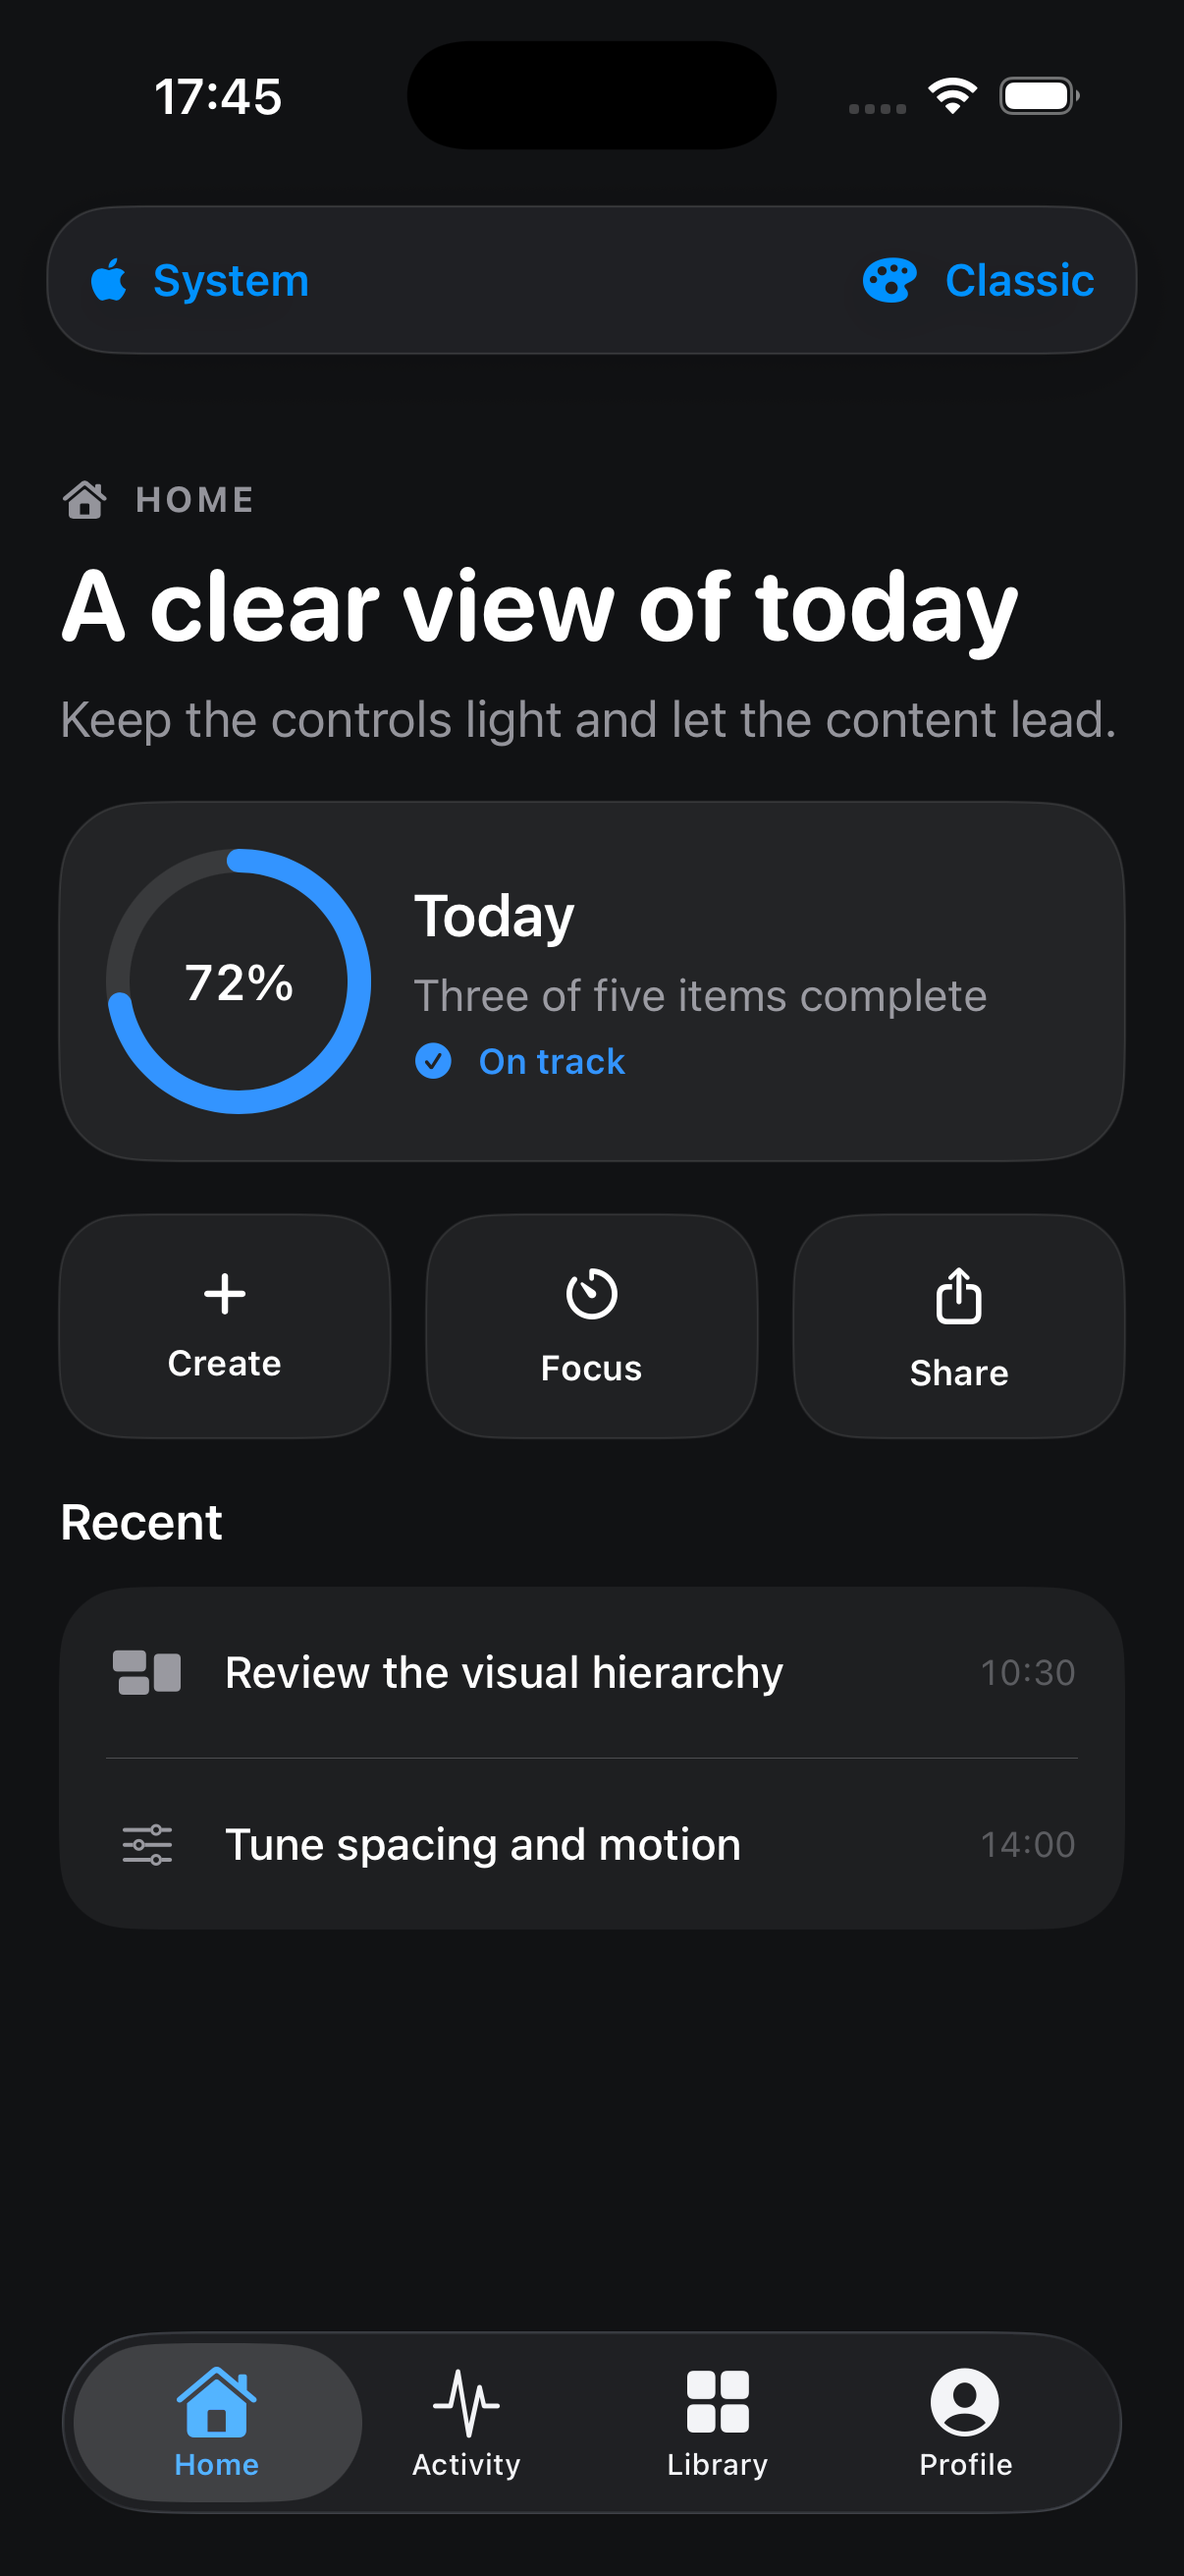
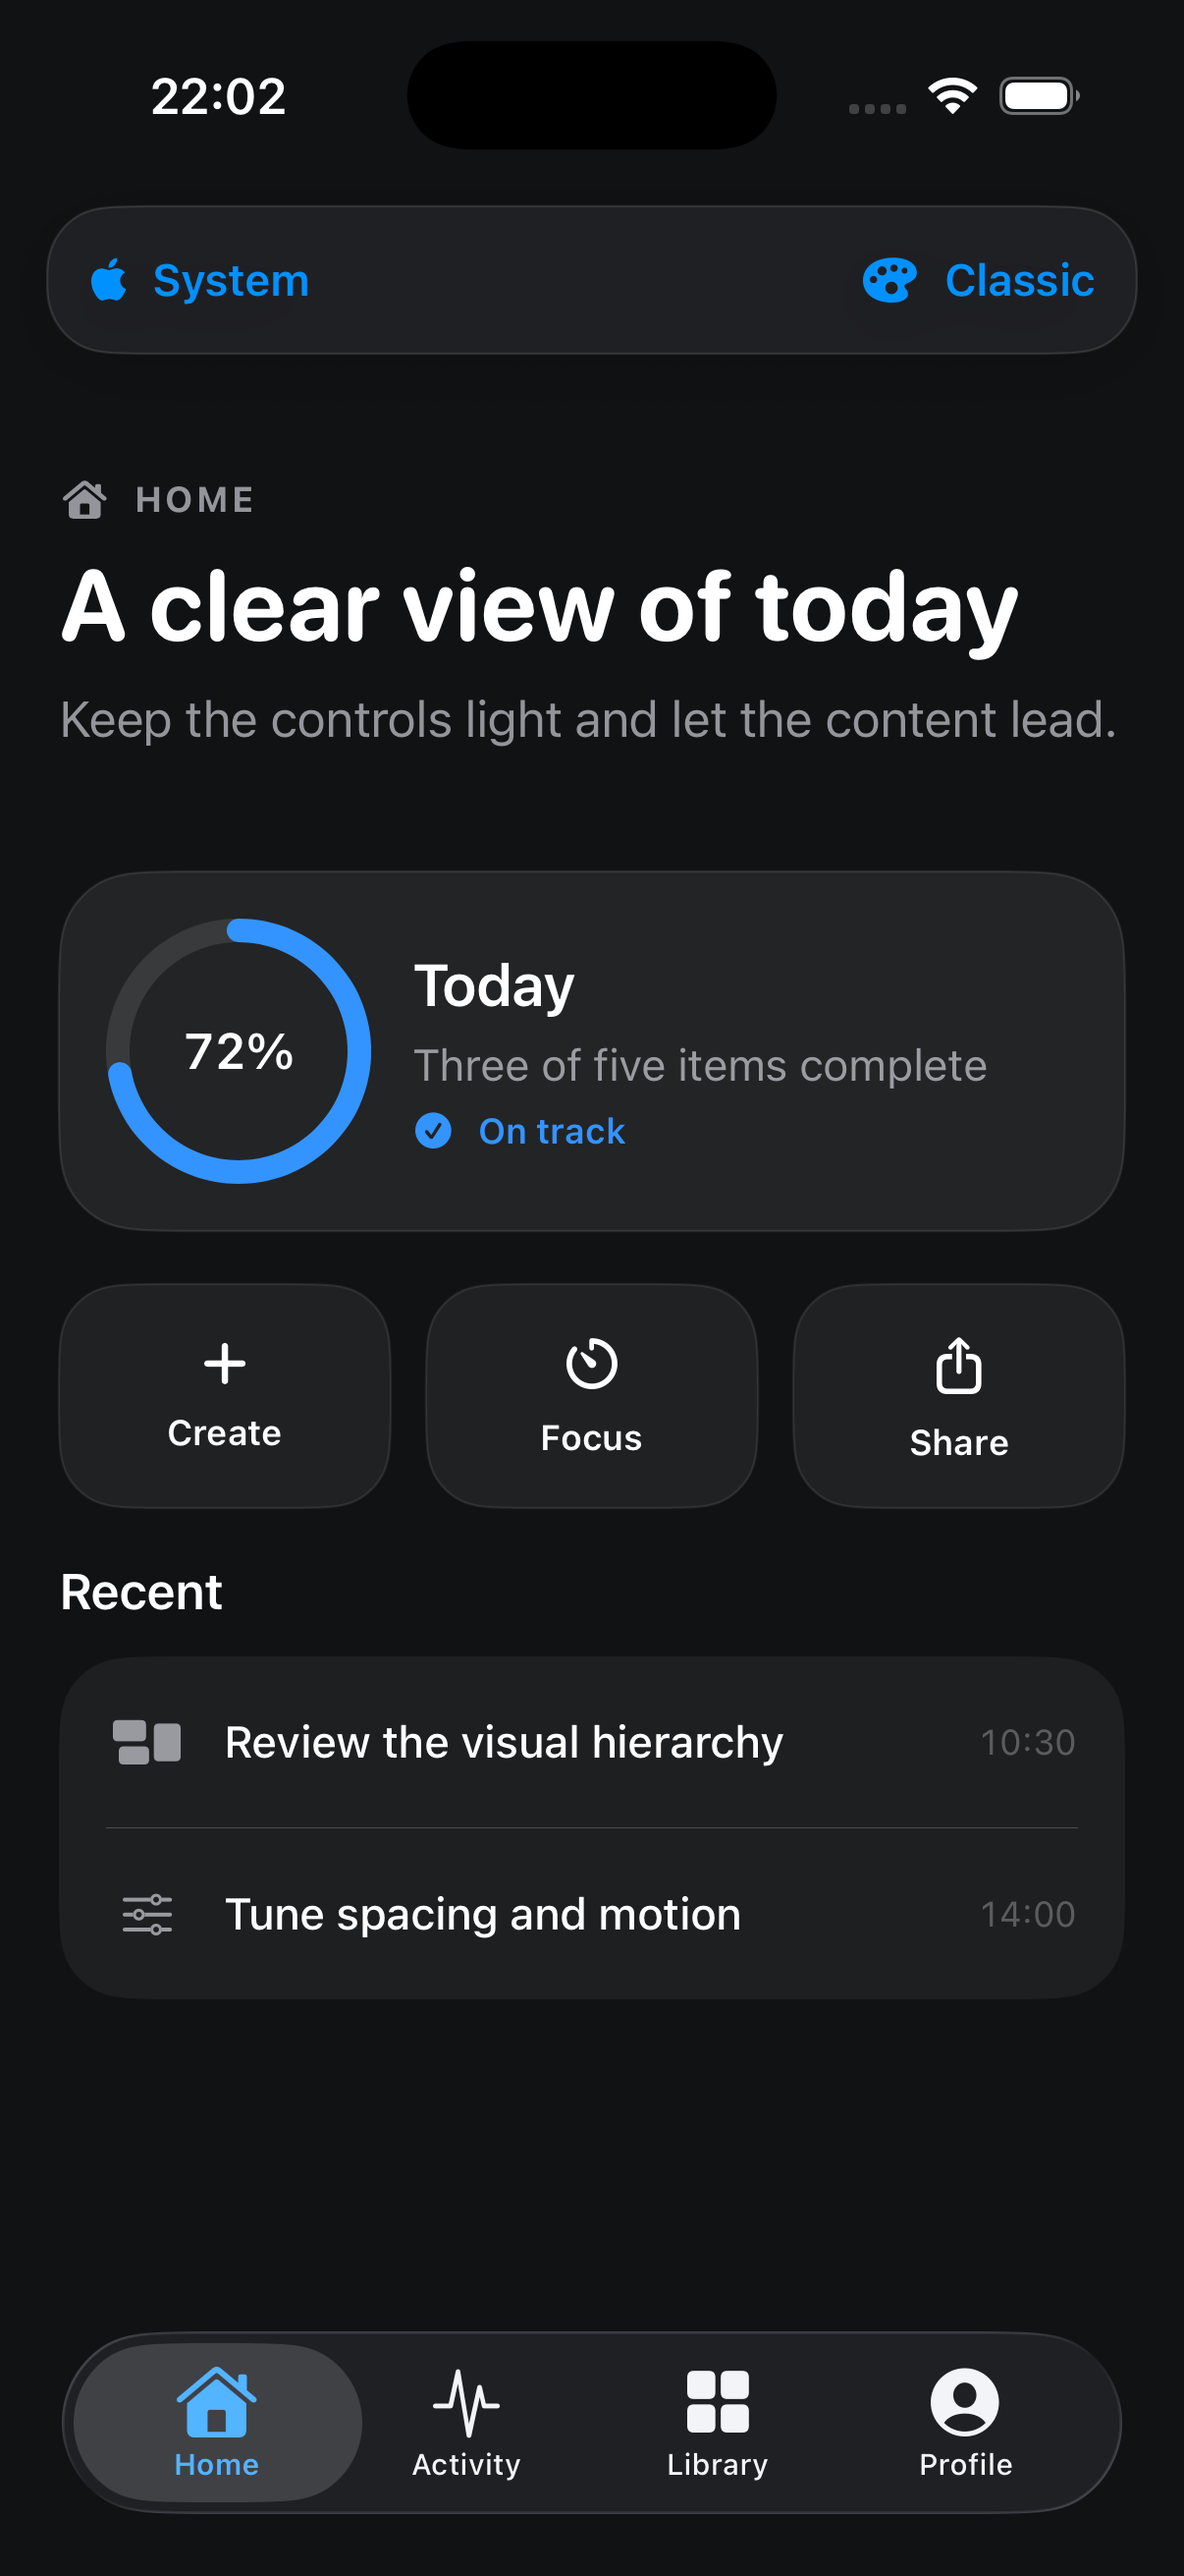
Stabilize tab bar showcase transitions
Unify custom bar geometry, smooth style and palette transitions, add compiler-gated Liquid Glass fallbacks, and refresh preview media.

diff --git a/Examples/LiquidGlassDemo/LiquidGlassDemo/DemoRootView.swift b/Examples/LiquidGlassDemo/LiquidGlassDemo/DemoRootView.swift
@@ -71,6 +71,14 @@ struct DemoRootView: View {
                     .scaledToFill()
                     .ignoresSafeArea()
                     .opacity(transitionSnapshotOpacity)
+                    .mask {
+                        VStack(spacing: 0) {
+                            Rectangle().frame(height: 140)
+                            Spacer(minLength: 0)
+                            Rectangle().frame(height: 140)
+                        }
+                        .ignoresSafeArea()
+                    }
                     .allowsHitTesting(false)
                     .accessibilityHidden(true)
             }
@@ -104,6 +112,7 @@ struct DemoRootView: View {
                 .padding(.horizontal, 16)
                 .padding(.top, 8)
                 .padding(.bottom, 6)
+                .offset(y: 16)
             }
     }
 
@@ -158,9 +167,11 @@ struct DemoRootView: View {
         Menu {
             ForEach(DemoPalette.allCases) { candidate in
                 Button {
-                    withAnimation(.easeInOut(duration: 0.24)) {
-                        palette = candidate
-                    }
+                    changePresentation(
+                        tab: selectedTab,
+                        style: barStyle,
+                        palette: candidate
+                    )
                 } label: {
                     Label(
                         candidate.title,
@@ -189,7 +200,7 @@ struct DemoRootView: View {
             }
             await pause(milliseconds: 1_150)
 
-            changePresentation(tab: .home, style: .floating, palette: .graphite)
+            changePresentation(tab: selectedTab, style: .floating, palette: .graphite)
             await pause(milliseconds: 1_650)
 
             withAnimation(.spring(response: 0.32, dampingFraction: 0.82)) {
@@ -197,7 +208,7 @@ struct DemoRootView: View {
             }
             await pause(milliseconds: 1_150)
 
-            changePresentation(tab: .activity, style: .morphing, palette: .classic)
+            changePresentation(tab: selectedTab, style: .morphing, palette: .classic)
             await pause(milliseconds: 1_650)
 
             withAnimation(.spring(response: 0.32, dampingFraction: 0.82)) {
@@ -205,8 +216,13 @@ struct DemoRootView: View {
             }
             await pause(milliseconds: 1_150)
 
-            changePresentation(tab: .home, style: .system, palette: .classic)
-            await pause(milliseconds: 600)
+            withAnimation(.spring(response: 0.32, dampingFraction: 0.82)) {
+                selectedTab = .home
+            }
+            await pause(milliseconds: 1_150)
+
+            changePresentation(tab: selectedTab, style: .system, palette: .classic)
+            await pause(milliseconds: 1_200)
         }
     }
 
@@ -235,6 +251,9 @@ struct DemoRootView: View {
         withTransaction(transaction) {
             selectedTab = tab
             barStyle = style
+        }
+
+        withAnimation(.easeInOut(duration: 0.60)) {
             self.palette = palette
         }
 
@@ -243,11 +262,11 @@ struct DemoRootView: View {
 
             guard transitionID == currentTransitionID else { return }
 
-            withAnimation(.easeInOut(duration: 0.48)) {
+            withAnimation(.easeInOut(duration: 0.60)) {
                 transitionSnapshotOpacity = 0
             }
 
-            await pause(milliseconds: 520)
+            await pause(milliseconds: 650)
 
             guard transitionID == currentTransitionID else { return }
             transitionSnapshot = nil

diff --git a/Packages/LiquidUI/Sources/LiquidUI/Components/LiquidTabBar.swift b/Packages/LiquidUI/Sources/LiquidUI/Components/LiquidTabBar.swift
@@ -9,7 +9,7 @@ public struct LiquidTabBar<ID: Hashable & Sendable>: View {
 
     @Namespace private var selectionNamespace
     @Environment(\.accessibilityReduceMotion) private var reduceMotion
-    @ScaledMetric(relativeTo: .body) private var floatingHeight: CGFloat = 60
+    @ScaledMetric(relativeTo: .body) private var barHeight: CGFloat = 60
     @ScaledMetric(relativeTo: .body) private var minimumItemHeight: CGFloat = 48
 
     public init(
@@ -50,7 +50,7 @@ public struct LiquidTabBar<ID: Hashable & Sendable>: View {
         }
         .frame(height: minimumItemHeight)
         .padding(6)
-        .frame(height: floatingHeight)
+        .frame(height: barHeight)
         .liquidGlassSurface(in: Capsule(), theme: theme)
         .shadow(color: theme.shadowColor, radius: theme.shadowRadius, y: 8)
     }
@@ -104,6 +104,7 @@ public struct LiquidTabBar<ID: Hashable & Sendable>: View {
 
     @ViewBuilder
     private var morphingBar: some View {
+        #if compiler(>=6.2)
         if #available(iOS 26.0, macOS 26.0, *) {
             GlassEffectContainer(spacing: theme.itemSpacing) {
                 morphingItems
@@ -111,6 +112,9 @@ public struct LiquidTabBar<ID: Hashable & Sendable>: View {
         } else {
             morphingItems
         }
+        #else
+        morphingItems
+        #endif
     }
 
     private var morphingItems: some View {
@@ -141,7 +145,7 @@ public struct LiquidTabBar<ID: Hashable & Sendable>: View {
             }
             .foregroundStyle(isSelected ? theme.tint : theme.inactiveForeground)
             .padding(.horizontal, isSelected ? 16 : 14)
-            .frame(minWidth: minimumItemHeight, minHeight: minimumItemHeight)
+            .frame(minWidth: minimumItemHeight, minHeight: barHeight)
             .contentShape(Capsule())
         }
         .buttonStyle(.plain)
@@ -154,11 +158,15 @@ public struct LiquidTabBar<ID: Hashable & Sendable>: View {
         .accessibilityLabel(item.title)
         .accessibilityAddTraits(isSelected ? .isSelected : [])
 
+        #if compiler(>=6.2)
         if #available(iOS 26.0, macOS 26.0, *) {
             button.glassEffectID(item.id, in: selectionNamespace)
         } else {
             button
         }
+        #else
+        button
+        #endif
     }
 
     private func select(_ item: LiquidTabItem<ID>) {

diff --git a/Packages/LiquidUI/Sources/LiquidUI/Utilities/LiquidGlassSurfaceModifier.swift b/Packages/LiquidUI/Sources/LiquidUI/Utilities/LiquidGlassSurfaceModifier.swift
@@ -14,20 +14,30 @@ struct LiquidGlassSurfaceModifier<SurfaceShape: Shape>: ViewModifier {
             content
                 .background(theme.fallbackFill, in: shape)
                 .overlay { shape.stroke(theme.fallbackBorder, lineWidth: 1) }
-        } else if #available(iOS 26.0, macOS 26.0, *) {
-            if isInteractive {
-                content.glassEffect(
-                    .regular.tint(tint).interactive(),
-                    in: shape
-                )
-            } else {
-                content.glassEffect(.regular.tint(tint), in: shape)
-            }
         } else {
-            content
-                .background(.ultraThinMaterial, in: shape)
-                .overlay { shape.stroke(theme.fallbackBorder, lineWidth: 0.75) }
+            #if compiler(>=6.2)
+            if #available(iOS 26.0, macOS 26.0, *) {
+                if isInteractive {
+                    content.glassEffect(
+                        .regular.tint(tint).interactive(),
+                        in: shape
+                    )
+                } else {
+                    content.glassEffect(.regular.tint(tint), in: shape)
+                }
+            } else {
+                fallbackSurface(content)
+            }
+            #else
+            fallbackSurface(content)
+            #endif
         }
+    }
+
+    private func fallbackSurface(_ content: Content) -> some View {
+        content
+            .background(.ultraThinMaterial, in: shape)
+            .overlay { shape.stroke(theme.fallbackBorder, lineWidth: 0.75) }
     }
 }
 

diff --git a/Packages/LiquidUI/Tests/LiquidUITests/LiquidTabBarLayoutTests.swift b/Packages/LiquidUI/Tests/LiquidUITests/LiquidTabBarLayoutTests.swift
@@ -1,0 +1,34 @@
+import SwiftUI
+import XCTest
+@testable import LiquidUI
+
+@MainActor
+final class LiquidTabBarLayoutTests: XCTestCase {
+    func testVariantsUseTheSameSurfaceHeight() throws {
+        let floatingHeight = try renderedHeight(for: .floating)
+        let morphingHeight = try renderedHeight(for: .morphing)
+
+        XCTAssertEqual(floatingHeight, morphingHeight, accuracy: 0.5)
+    }
+
+    private func renderedHeight(for variant: LiquidTabBarVariant) throws -> CGFloat {
+        let items = [
+            LiquidTabItem(id: "home", title: "Home", systemImage: "house.fill"),
+            LiquidTabItem(id: "activity", title: "Activity", systemImage: "waveform.path.ecg"),
+            LiquidTabItem(id: "library", title: "Library", systemImage: "square.grid.2x2.fill"),
+            LiquidTabItem(id: "profile", title: "Profile", systemImage: "person.crop.circle.fill")
+        ]
+        let view = LiquidTabBar(
+            selection: .constant("home"),
+            items: items,
+            variant: variant,
+            theme: .classic
+        )
+        .frame(width: 360)
+        let renderer = ImageRenderer(content: view)
+        renderer.scale = 1
+        renderer.proposedSize = ProposedViewSize(width: 360, height: nil)
+
+        return CGFloat(try XCTUnwrap(renderer.cgImage).height)
+    }
+}

diff --git a/Examples/LiquidGlassDemo/LiquidGlassDemo/DemoScreen.swift b/Examples/LiquidGlassDemo/LiquidGlassDemo/DemoScreen.swift
@@ -39,6 +39,7 @@ struct DemoScreen: View {
                 .font(.body)
                 .foregroundStyle(.secondary)
                 .fixedSize(horizontal: false, vertical: true)
+                .frame(minHeight: 44, alignment: .topLeading)
         }
         .padding(.top, 20)
     }
@@ -173,11 +174,10 @@ private struct DemoBackdrop: View {
 
     @ViewBuilder
     var body: some View {
-        switch palette {
-        case .classic:
+        ZStack {
             Color(red: 0.065, green: 0.07, blue: 0.08)
-                .ignoresSafeArea()
-        case .graphite:
+                .opacity(palette == .classic ? 1 : 0)
+
             LinearGradient(
                 colors: [
                     Color(red: 0.055, green: 0.055, blue: 0.06),
@@ -187,7 +187,9 @@ private struct DemoBackdrop: View {
                 startPoint: .top,
                 endPoint: .bottom
             )
-            .ignoresSafeArea()
+            .opacity(palette == .graphite ? 1 : 0)
         }
+        .animation(.easeInOut(duration: 0.60), value: palette)
+        .ignoresSafeArea()
     }
 }

diff --git a/CHANGELOG.md b/CHANGELOG.md
@@ -2,6 +2,15 @@
 
 All notable changes will be documented here.
 
+## 1.0.2
+
+### Changed
+
+- Unified Floating and Morphing tab bar surfaces at the same adaptive height.
+- Aligned custom bars with the native tab bar baseline in the demo.
+- Separated navigation changes from style and theme transitions for a steadier showcase.
+- Re-recorded the catalog preview with a longer, smoother loop.
+
 ## 1.0.1
 
 ### Changed
